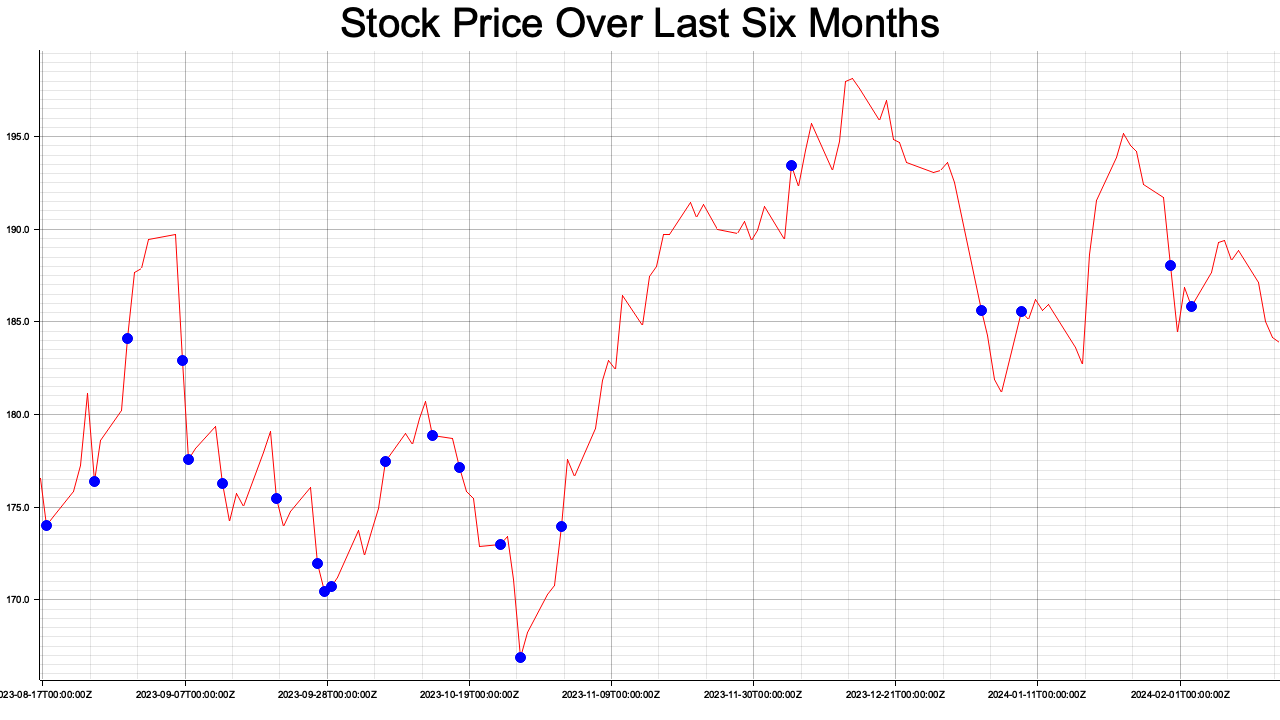
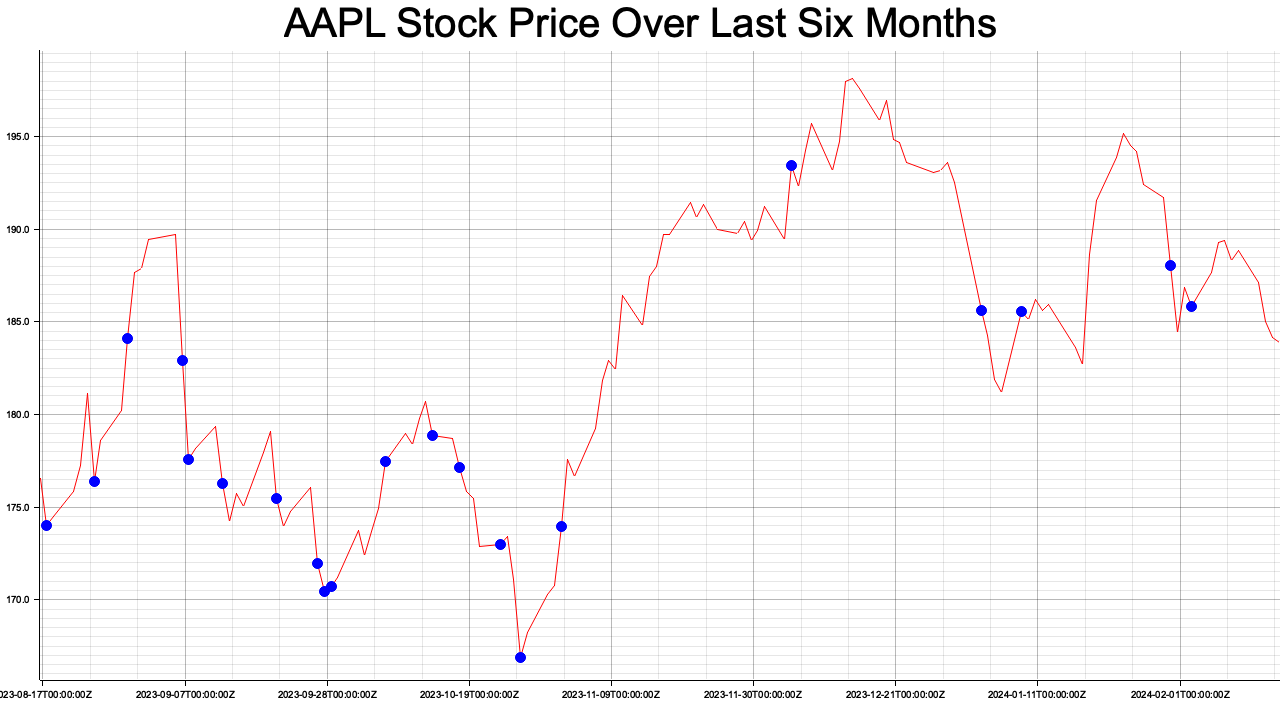
added ticker to plot caption, updated ReadMe.md

Changed region(s): [[0.2188, 0.0, 0.7812, 0.0611]]

diff --git a/stock_monitor/src/main.rs b/stock_monitor/src/main.rs
@@ -7,7 +7,7 @@ async fn main() {
     let ticker = get_ticker_from_command_line();    
 
     if let Ok(stock_data) = get_stock_quotes(ticker.to_string()).await {
-        match plot_function(stock_data) {
+        match plot_function(stock_data, &ticker) {
             Ok(_) => println!("Plot generated successfully."),
             Err(e) => eprintln!("Failed to generate plot: {}", e),
         }
@@ -59,10 +59,6 @@ async fn get_stock_quotes(queried_ticker: String) -> Result<Vec<Bar>, Box<dyn st
         datetimes.push(bar.datetime().to_string());
     }
 
-    // TODO: make "Apple" dynamic with the stock being plotted, should be generic
-    for bar in &data {
-        println!("Apple hit an intraday high of ${:.2} on {}.", bar.high, bar.datetime().format("%b %e %Y"));
-    }
 
     Ok(data)
 }
@@ -77,10 +73,9 @@ async fn get_stock_quotes(queried_ticker: String) -> Result<Vec<Bar>, Box<dyn st
     // Finally, the program will print the minimum and maximum closing price for the interval, and the dates on which these values occurred.
     // Separate function?
 
-    fn plot_function(stock_data: Vec<Bar>) -> Result<(), Box<dyn std::error::Error>> {
-        // Define the path to the output image
+    // Updated plot_function signature to include ticker
+    fn plot_function(stock_data: Vec<Bar>, ticker: &str) -> Result<(), Box<dyn std::error::Error>> {
         let root_area = BitMapBackend::new("stock_chart.png", (1280, 720)).into_drawing_area();
-        
         root_area.fill(&WHITE)?;
 
         let min_date = stock_data.first().unwrap().datetime();
@@ -88,21 +83,22 @@ async fn get_stock_quotes(queried_ticker: String) -> Result<Vec<Bar>, Box<dyn st
         let max_price = stock_data.iter().map(|x| x.high).fold(0./0., f64::max);
         let min_price = stock_data.iter().map(|x| x.low).fold(0./0., f64::min);
 
+        // Updated caption to include ticker
+        let caption = format!("{} Stock Price Over Last Six Months", ticker);
+
         let mut chart = ChartBuilder::on(&root_area)
-            .caption("Stock Price Over Last Six Months", ("sans-serif", 50).into_font())
+            .caption(caption, ("sans-serif", 50).into_font())
             .set_label_area_size(LabelAreaPosition::Left, 40)
             .set_label_area_size(LabelAreaPosition::Bottom, 40)
             .build_cartesian_2d(min_date..max_date, min_price..max_price)?;
 
         chart.configure_mesh().draw()?;
 
-        // Plotting the closing prices
         chart.draw_series(LineSeries::new(
             stock_data.iter().map(|bar| (bar.datetime(), bar.close)),
             &RED,
         ))?;
 
-        // Highlighting volatile days
         for bar in stock_data.iter().filter(|bar| (bar.high - bar.low) / bar.close > 0.02) {
             chart.draw_series(PointSeries::of_element(
                 [(bar.datetime(), bar.close)],
